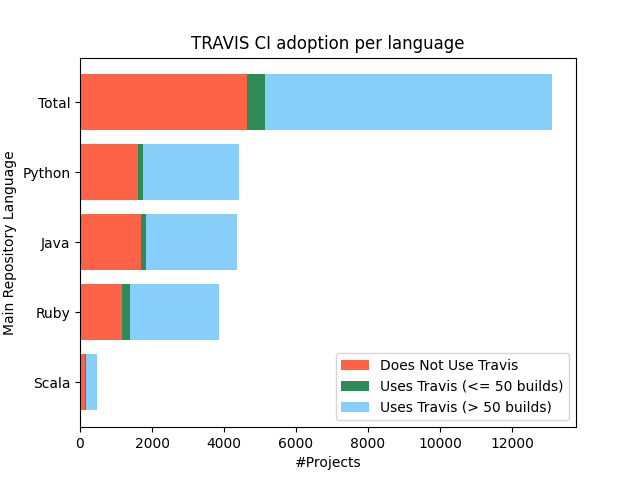
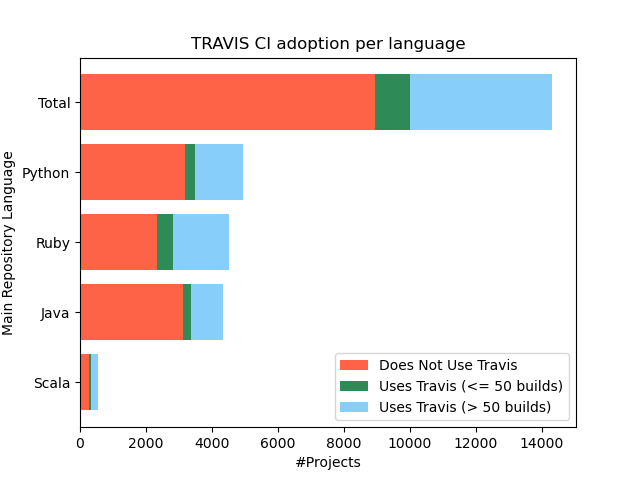
update plot

diff --git a/plot_travis_ci.py b/plot_travis_ci.py
@@ -31,13 +31,13 @@ sorted_language = np.array(language_list, dtype=object)
 x = sorted_language[:, 0]
 y = np.array([k for k in sorted_language[:, 1]])
 no_travis = y[:, 0]
-lte_travis = y[:, 1] + no_travis
-gt_travis = y[:, 2] + lte_travis
+lte_travis = y[:, 1]
+gt_travis = y[:, 2]
 print(sorted_language)
 
 plt.barh(x, no_travis, label='Does Not Use Travis', color='tomato')
 plt.barh(x, lte_travis, left=no_travis, label='Uses Travis (<= 50 builds)', color='seagreen')
-plt.barh(x, gt_travis, left=lte_travis, label='Uses Travis (> 50 builds)', color='lightskyblue')
+plt.barh(x, gt_travis, left=lte_travis + no_travis, label='Uses Travis (> 50 builds)', color='lightskyblue')
 
 plt.ylabel('Main Repository Language')
 plt.xlabel('#Projects')
